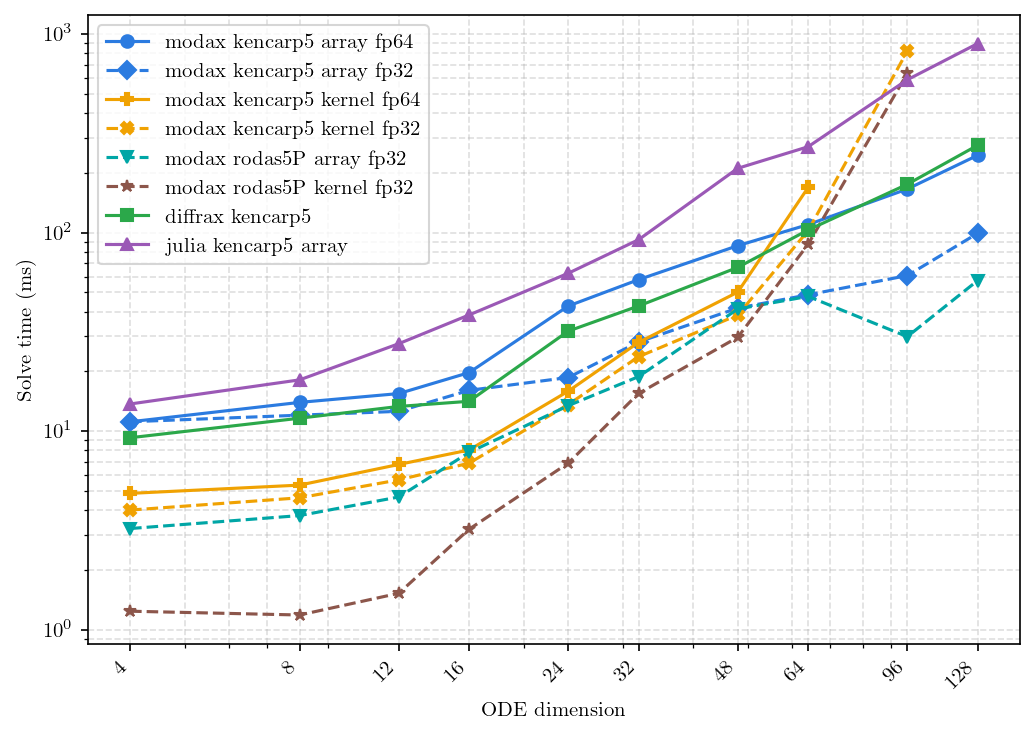
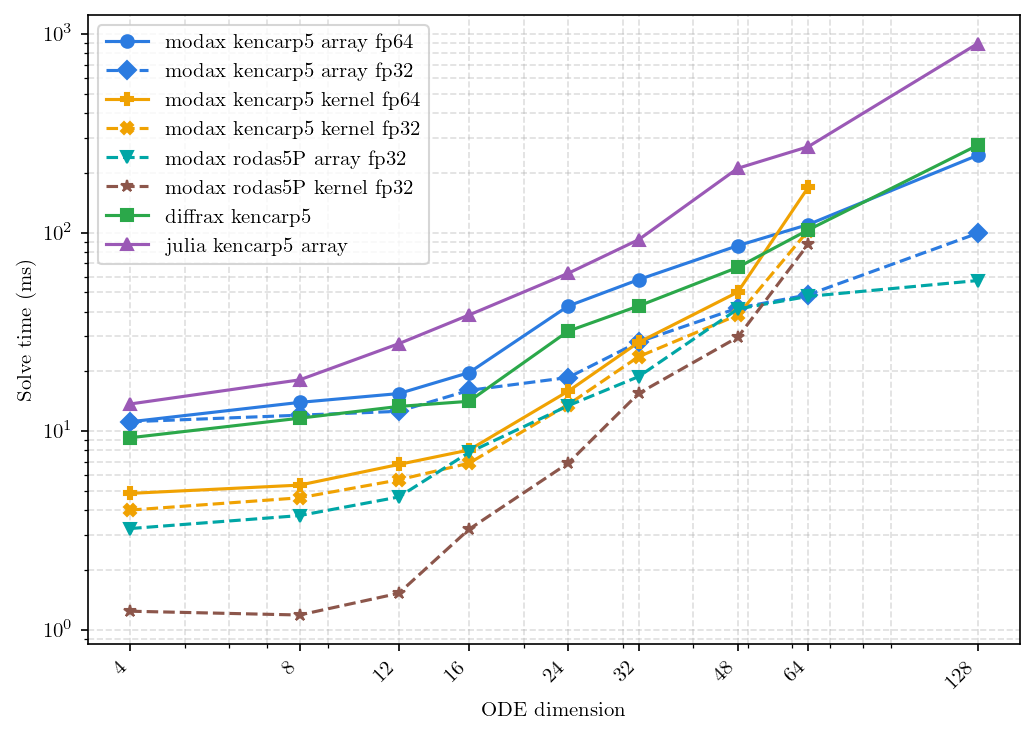
Remove D=96 from Brusselator script for consistency with other plots

diff --git a/scripts/12_kencarp5_brusselator_dimensionality/main.py b/scripts/12_kencarp5_brusselator_dimensionality/main.py
@@ -54,7 +54,7 @@ _ENSEMBLE_SIZE = 1000
 _N_RUNS = 1
 
 # Total ODE dimension (= 2 * n_grid). Matches the script 9 VDP sweep shape.
-_DIMENSIONS = (4, 8, 12, 16, 24, 32, 48, 64, 96, 128)
+_DIMENSIONS = (4, 8, 12, 16, 24, 32, 48, 64, 128)
 
 _SCRIPT_DIR = Path(__file__).resolve().parent
 _CACHE_PATH = _SCRIPT_DIR / "results.json"